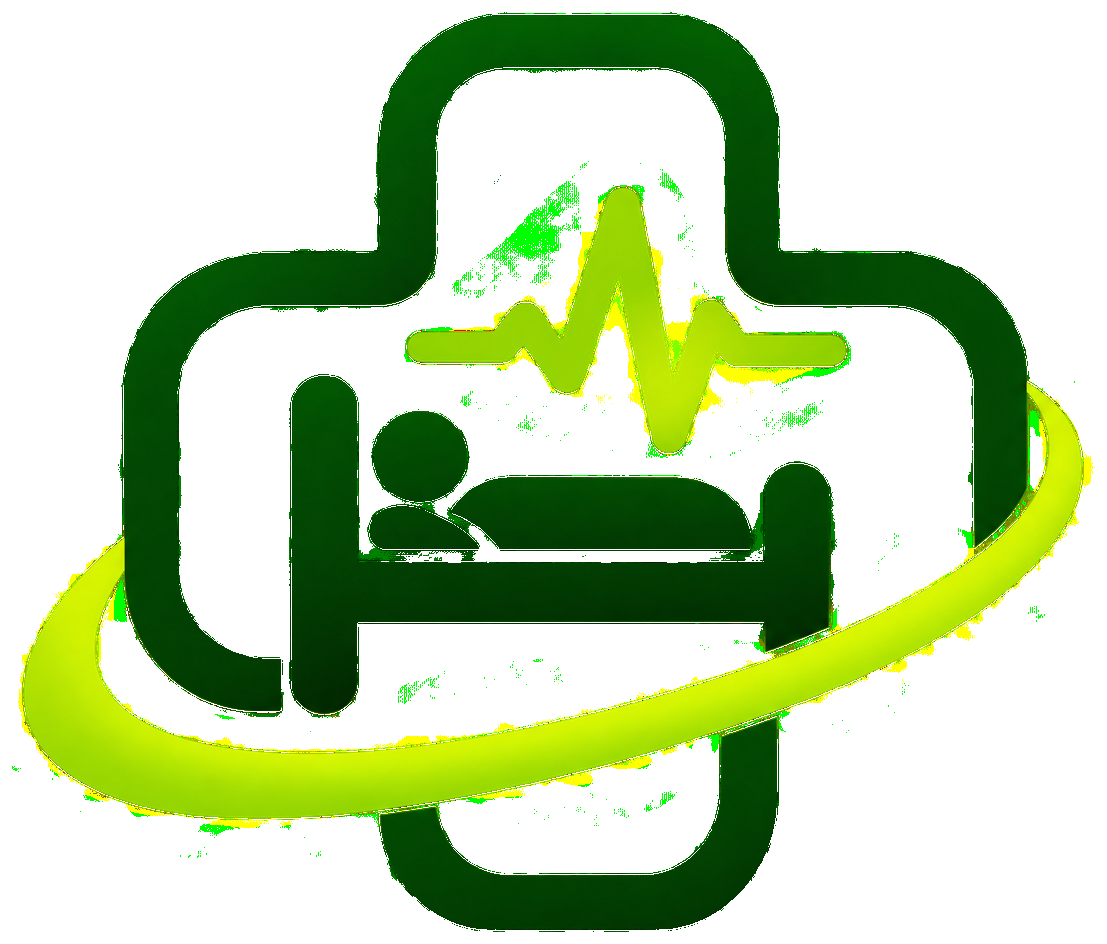
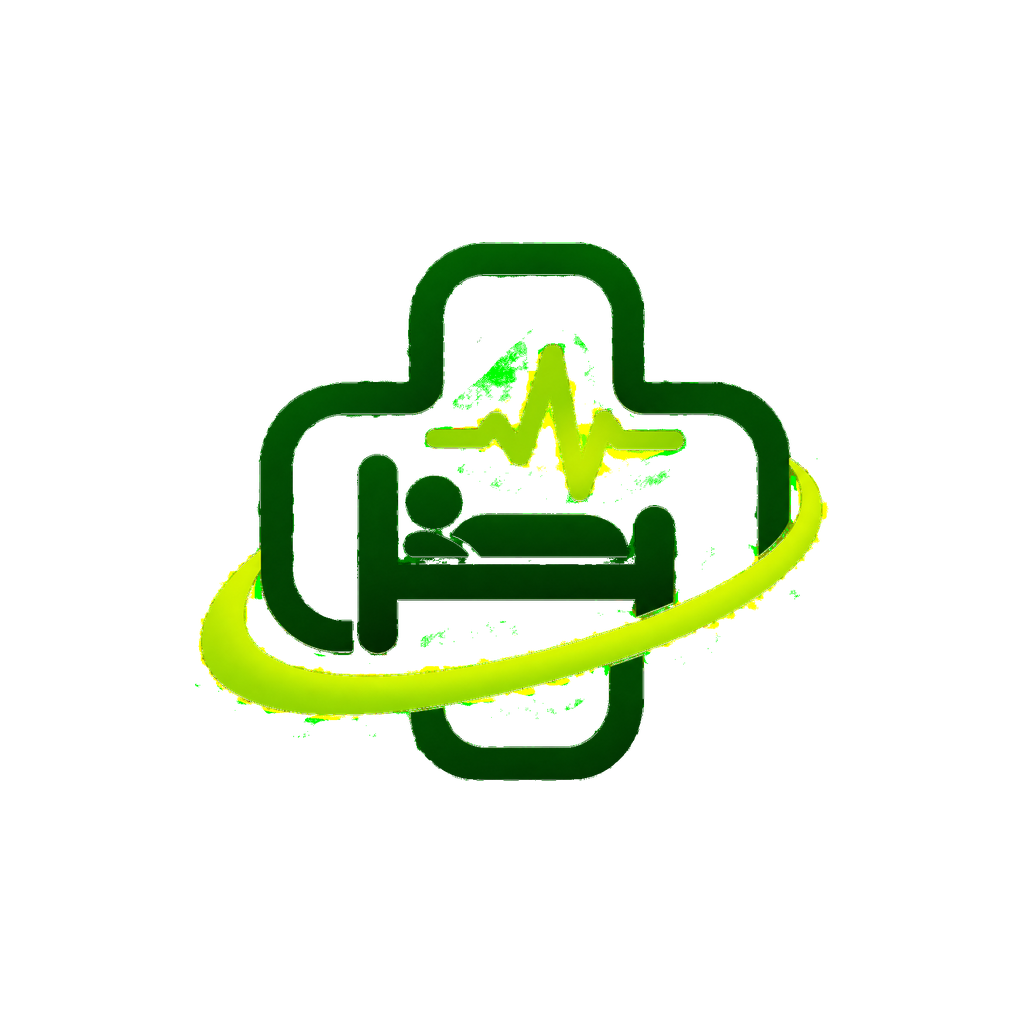
add Expo configuration, EAS build profiles, and mobile asset generation script

diff --git a/apps/mobile/app.config.ts b/apps/mobile/app.config.ts
@@ -27,9 +27,10 @@ export default ({ config }: ConfigContext): ExpoConfig => ({
   android: {
     adaptiveIcon: {
       foregroundImage: './assets/adaptive-icon.png',
-      backgroundColor: '#F4F7F2',
+      backgroundColor: '#0B3D1A',
     },
     package: 'com.getmyhospital.app',
+    versionCode: 1,
     permissions: [
       'ACCESS_COARSE_LOCATION',
       'ACCESS_FINE_LOCATION',

diff --git a/apps/mobile/scripts/generate-icons.py b/apps/mobile/scripts/generate-icons.py
@@ -1,0 +1,76 @@
+from PIL import Image
+from pathlib import Path
+
+root = Path(__file__).resolve().parents[1] / 'assets'
+src = Image.open(root / 'logo-mark.png').convert('RGBA')
+
+px = src.load()
+w, h = src.size
+min_x, min_y, max_x, max_y = w, h, 0, 0
+for y in range(h):
+    for x in range(w):
+        r, g, b, a = px[x, y]
+        if a > 20 and (r + g + b) > 30:
+            min_x = min(min_x, x)
+            min_y = min(min_y, y)
+            max_x = max(max_x, x)
+            max_y = max(max_y, y)
+
+cropped = src.crop((min_x, min_y, max_x + 1, max_y + 1)) if max_x > min_x else src
+
+BG = (11, 61, 26, 255)
+
+
+def make_square(size: int, pad_ratio: float, bg):
+    canvas = Image.new('RGBA', (size, size), bg)
+    max_side = int(size * (1 - 2 * pad_ratio))
+    mark = cropped.copy()
+    mark.thumbnail((max_side, max_side), Image.Resampling.LANCZOS)
+    x = (size - mark.width) // 2
+    y = (size - mark.height) // 2
+    canvas.alpha_composite(mark, (x, y))
+    return canvas
+
+
+icon = make_square(1024, 0.12, BG).convert('RGB')
+icon.save(root / 'icon.png', 'PNG', optimize=True)
+
+fg = Image.new('RGBA', (1024, 1024), (0, 0, 0, 0))
+max_side = int(1024 * 0.62)
+mark = cropped.copy()
+mark.thumbnail((max_side, max_side), Image.Resampling.LANCZOS)
+x = (1024 - mark.width) // 2
+y = (1024 - mark.height) // 2
+fg.alpha_composite(mark, (x, y))
+fg.save(root / 'adaptive-icon.png', 'PNG', optimize=True)
+
+splash_src = Image.open(root / 'logo.png').convert('RGBA')
+px = splash_src.load()
+w, h = splash_src.size
+min_x, min_y, max_x, max_y = w, h, 0, 0
+for y in range(h):
+    for x in range(w):
+        r, g, b, a = px[x, y]
+        if a > 20 and (r + g + b) > 40:
+            min_x = min(min_x, x)
+            min_y = min(min_y, y)
+            max_x = max(max_x, x)
+            max_y = max(max_y, y)
+logo = splash_src.crop((min_x, min_y, max_x + 1, max_y + 1)) if max_x > min_x else splash_src
+
+splash = Image.new('RGBA', (1284, 2778), (244, 247, 242, 255))
+logo_copy = logo.copy()
+logo_copy.thumbnail((int(1284 * 0.72), int(1284 * 0.72)), Image.Resampling.LANCZOS)
+lx = (1284 - logo_copy.width) // 2
+ly = (2778 - logo_copy.height) // 2
+splash.alpha_composite(logo_copy, (lx, ly))
+splash.convert('RGB').save(root / 'splash.png', 'PNG', optimize=True)
+
+favicon = make_square(192, 0.1, BG).convert('RGB')
+favicon.save(root / 'favicon.png', 'PNG', optimize=True)
+
+print('icons written')
+for name in ['icon.png', 'adaptive-icon.png', 'splash.png', 'favicon.png']:
+    p = root / name
+    im = Image.open(p)
+    print(name, im.size, p.stat().st_size)
